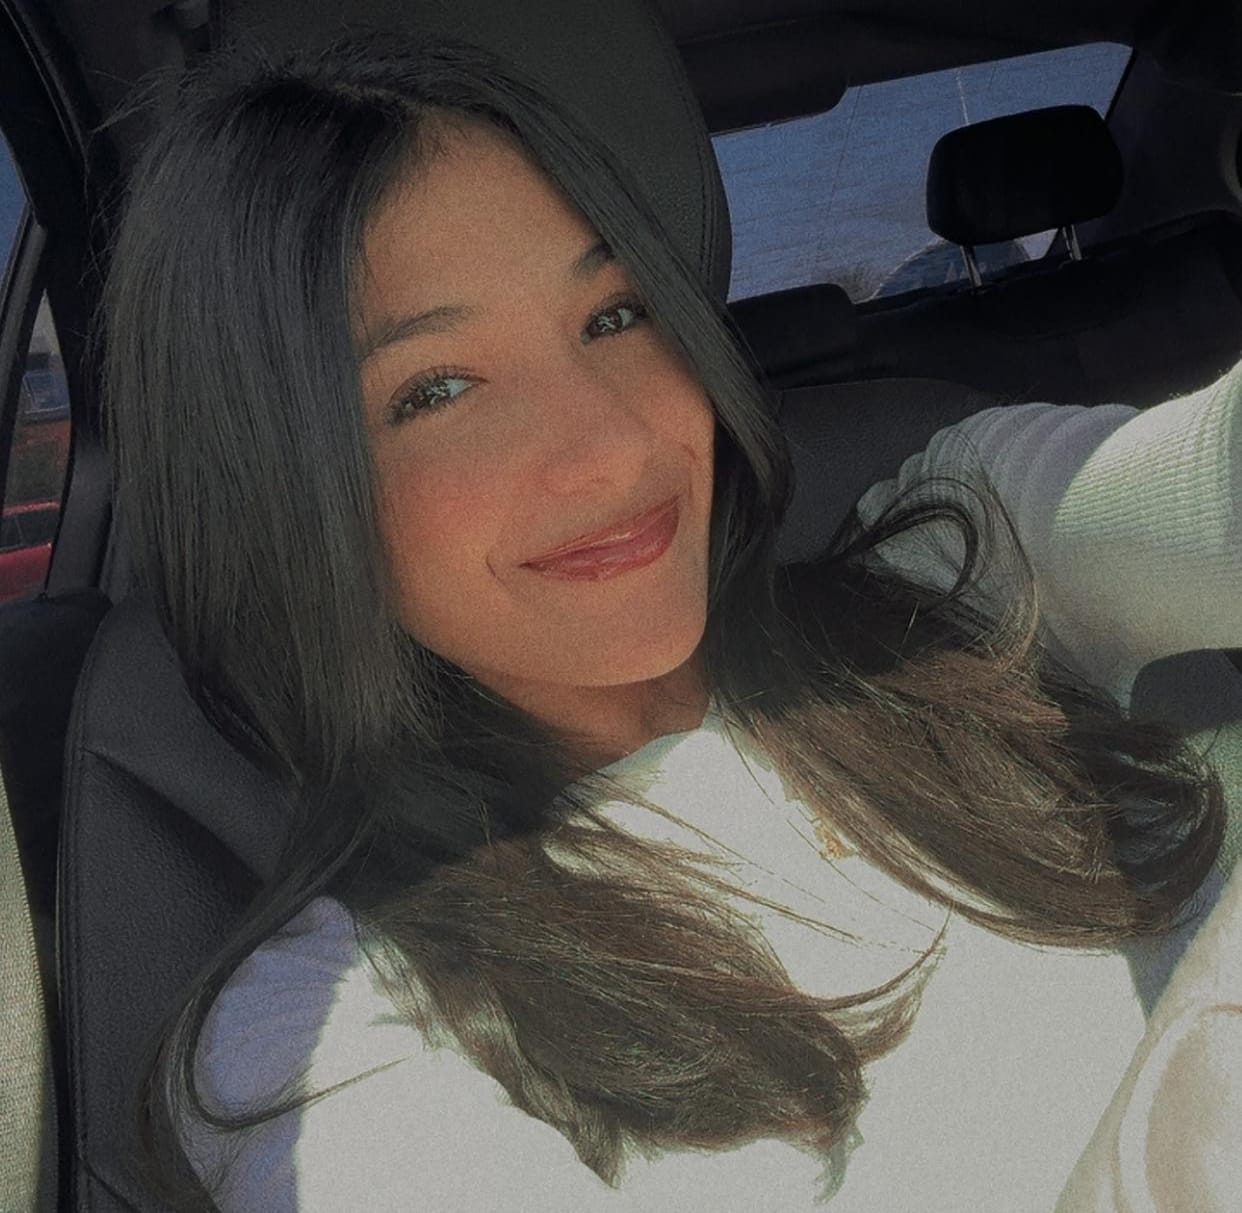
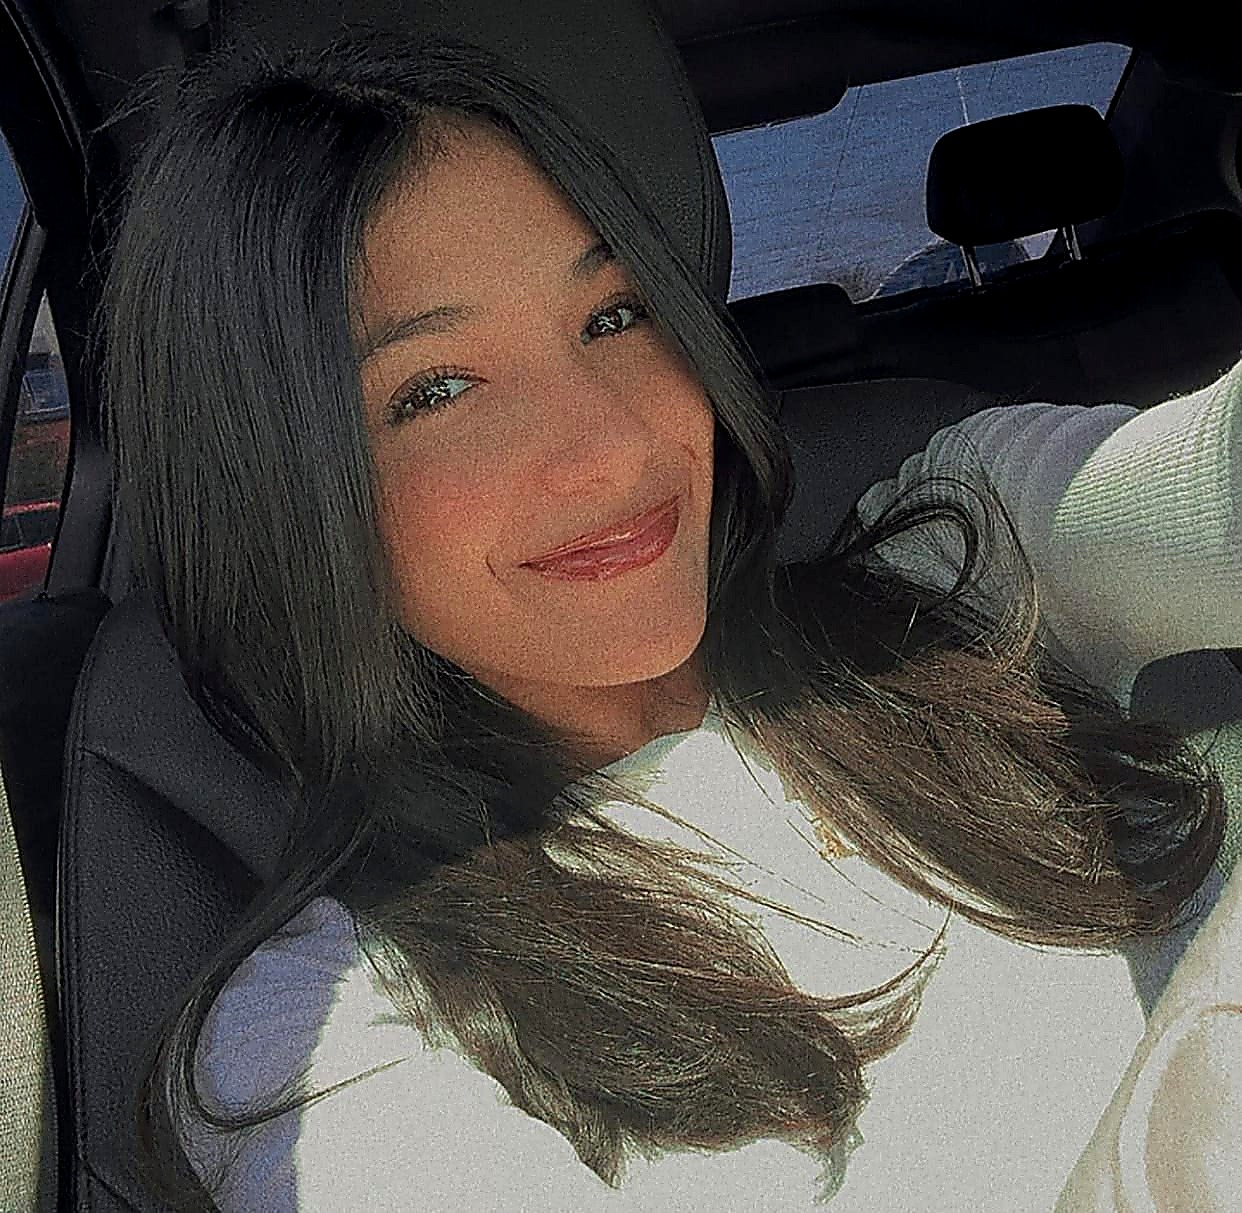
fix: blue tint name cards, Anila Siddiqui, sharpen Lena's photo
- Name cards now have light blue tint (academic-500/15 bg, academic-300/25 border)
- Update Anila's name to Anila Siddiqui
- Enhance Lena's photo: UnsharpMask + contrast boost + sharpening

diff --git a/src/views/About.vue b/src/views/About.vue
@@ -5,7 +5,7 @@ const { sectionRef: missionRef, isVisible: missionVisible } = useIntersectionRev
 const { sectionRef: teamRef, isVisible: teamVisible } = useIntersectionReveal(0.15)
 
 const tutors = [
-  { name: 'Anila', role: 'Founder & Lead Tutor', initials: 'A', photo: null },
+  { name: 'Anila Siddiqui', role: 'Founder & Lead Tutor', initials: 'AS', photo: null },
   { name: 'Tom Ngo', role: 'Tutor', initials: 'TN', photo: null },
   { name: 'Lena Tamer', role: 'Tutor', initials: 'LT', photo: '/tutors/lena-tamer.jpg' },
   { name: 'Walid Elsayed', role: 'Tutor', initials: 'WE', photo: null },
@@ -118,7 +118,7 @@ const tutors = [
             <span v-else class="font-heading text-4xl md:text-5xl font-bold text-white/10">{{ tutor.initials }}</span>
           </div>
           <!-- Liquid glass name card — floating inside the image -->
-          <div class="absolute bottom-3 left-3 right-3 px-4 py-3 rounded-xl backdrop-blur-2xl bg-white/[0.12] border border-white/[0.2] shadow-[inset_0_1px_1px_rgba(255,255,255,0.15),0_8px_32px_rgba(0,0,0,0.3)]">
+          <div class="absolute bottom-3 left-3 right-3 px-4 py-3 rounded-xl backdrop-blur-2xl bg-academic-500/[0.15] border border-academic-300/[0.25] shadow-[inset_0_1px_1px_rgba(140,200,255,0.2),0_8px_32px_rgba(0,0,0,0.3)]">
             <h3 class="font-heading text-sm font-bold text-white leading-tight drop-shadow-sm">{{ tutor.name }}</h3>
             <p class="font-body text-[11px] text-white/60 drop-shadow-sm">{{ tutor.role }}</p>
           </div>
